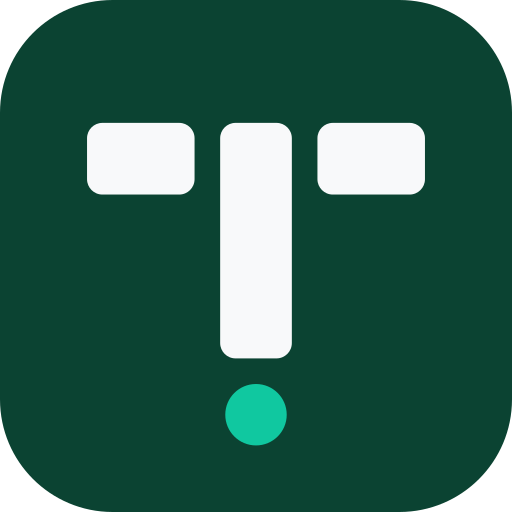
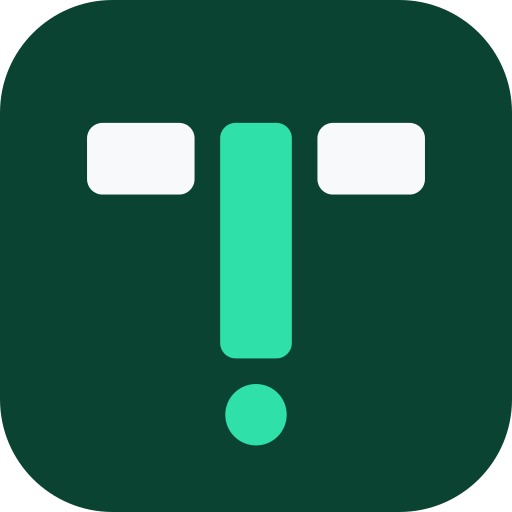
feat(brand): two-tone mark — mint stem carries the committed trade
owner iteration on p9.1: the all-ink glyph flattened the story. the
two crossbar segments stay ink (the two sides of the market); the stem
goes brand mint (the committed trade — the action color runs through
the mark). dark surfaces remap --brand-period to the bright variant so
the stem lifts with the ivory bars. favicon regenerated to match.
suite 275/275, tsc clean.

Changed region(s): [[0.4062, 0.2188, 0.5938, 0.7188], [0.4375, 0.75, 0.5625, 0.875]]

diff --git a/apps/taptrade-platform/frontend/packages/app/app/components/BrandMark.tsx b/apps/taptrade-platform/frontend/packages/app/app/components/BrandMark.tsx
@@ -1,17 +1,19 @@
 /**
  * BrandMark — TapTrade identity glyph (P9 revision, 2026-07-07).
  *
- * A split "T": two crossbar segments (the two sides of a binary market)
- * over a single stem (the trade that commits you), with a mint "tap dot"
- * landing under the stem — the tap that places the trade. Strokes share
+ * A split "T": two ink crossbar segments (the two sides of a binary
+ * market) over a mint stem (the committed trade — the action color runs
+ * through the mark), with a mint "tap dot" landing under the stem in the
+ * solo variant — the tap that places the trade. Strokes share
  * one weight and the two channels are real negative space, so the glyph
  * stays crisp from a 16px favicon (where the channels close into a solid
  * T) up to large lockups.
  *
  * Variants — a responsive identity system, not one frozen asset:
- *   "glyph" — naked monochrome mark in currentColor (defaults to brand ink; dark surfaces set text color to --brand-on-dark). For chrome next to the wordmark,
- *             which already carries the mint period; two mint dots in one
- *             lockup read as clutter.
+ *   "glyph" — naked two-tone mark: crossbars in currentColor (brand ink on
+ *             light; dark surfaces set text color to --brand-on-dark and
+ *             remap --brand-period to its dark variant), stem in the brand
+ *             mint. For chrome next to the wordmark.
  *   "solo"  — glyph + mint tap dot. For when the mark stands alone
  *             (loading screens, auth, share surfaces).
  * The app-icon/favicon tile lives in app/icon.svg (a container is needed
@@ -60,14 +62,14 @@ export default function BrandMark({
         rx="3"
         fill="currentColor"
       />
-      {/* the stem — one committed trade; shares the cap line, never overlaps */}
+      {/* the stem — one committed trade; the brand mint runs through it */}
       <rect
         x="42"
         y="18"
         width="16"
         height="56"
         rx="3"
-        fill="currentColor"
+        fill="var(--brand-period)"
       />
       {variant === "solo" && (
         /* the tap dot — the press that lands the trade */

diff --git a/apps/taptrade-platform/frontend/packages/app/app/page.tsx b/apps/taptrade-platform/frontend/packages/app/app/page.tsx
@@ -437,7 +437,10 @@ export default function HomePage() {
           className="inline-flex min-h-11 items-center gap-[10px] no-underline"
           aria-label={`${brand.name} home`}
         >
-          <BrandMark size={30} className="text-[var(--brand-on-dark)]" />
+          <BrandMark
+            size={30}
+            className="text-[var(--brand-on-dark)] [--brand-period:var(--brand-period-dark)]"
+          />
           <span className="text-[25px] font-bold leading-none tracking-[-0.02em] text-[var(--brand-on-dark)] [font-family:'Schibsted_Grotesk','Inter',-apple-system,BlinkMacSystemFont,sans-serif] max-[420px]:text-[22px]">
             {brand.name}
             <span className="text-[var(--brand-period-dark)]">.</span>

diff --git a/DESIGN.md b/DESIGN.md
@@ -28,7 +28,7 @@ The prior Liquid Glass spec (active 2026-04-24 → 2026-04-26) is retired. The w
 
 **Wordmark (refreshed 2026-06-06):** the wordmark is **`TapTrade.`** set in **Schibsted Grotesk 700**, color `--brand-ink` (deep forest `#0b4332`), tracking `-0.03em`, with a **mint period** (`--brand-period` `#10c8a0`) as the recurring signature element. Keep the wordmark clean — no descriptor baked into the lockup. Use a restrained descriptor _outside_ the wordmark when orientation matters: `prediction markets`, `event markets`, or `trade real-world outcomes` — in document-title metadata, auth supporting copy, first-time trade-ticket trust copy, empty states, and social/share descriptions. The brand color is its own layer: never `--accent` (CTA mint) or `--yes` (signal seafoam).
 
-**Brand mark (P9.1, 2026-07-07):** a naked **split "T"** glyph — two crossbar segments (the two sides of a binary market) over a single stem (the committed trade), strokes on one weight with real negative-space channels, drawn in `currentColor`. In chrome it renders as the monochrome glyph next to the wordmark (ink on light, `--brand-on-dark` ivory on dark) — the mint period stays the wordmark's job so a lockup never carries two mint dots. Standing alone (loading, auth, share surfaces) the `solo` variant adds the **mint tap dot** under the stem — the tap that lands the trade. The deep-forest rounded-square tile survives only in `app/icon.svg` / `app/icon.png` (favicons need a container against browser chrome); page surfaces never draw the tile. Source of truth: `app/components/BrandMark.tsx`. The 2026-06-06 tile-with-corner-dot mark is **retired** — letter-in-a-tile read as a generic app icon, the corner dot read as a notification badge, and its stem overlapped the crossbar segments producing sub-pixel seams at chrome sizes.
+**Brand mark (P9.1, 2026-07-07):** a naked **two-tone split "T"** glyph — two ink crossbar segments (the two sides of a binary market) over a **mint stem** (the committed trade; the brand mint runs through the mark), strokes on one weight with real negative-space channels. Crossbars draw in `currentColor` (ink on light; dark surfaces set the text color to `--brand-on-dark` and remap `--brand-period` to its dark variant so the stem brightens with them). The mint period stays the wordmark's signature; the stem is a slab, not a dot, so the pairing rhymes instead of repeating. Standing alone (loading, auth, share surfaces) the `solo` variant adds the **mint tap dot** under the stem — the tap that lands the trade. The deep-forest rounded-square tile survives only in `app/icon.svg` / `app/icon.png` (favicons need a container against browser chrome); page surfaces never draw the tile. Source of truth: `app/components/BrandMark.tsx`. The 2026-06-06 tile-with-corner-dot mark is **retired** — letter-in-a-tile read as a generic app icon, the corner dot read as a notification badge, and its stem overlapped the crossbar segments producing sub-pixel seams at chrome sizes.
 
 **First-screen hierarchy:** the first viewport should answer, in order: this is TapTrade, this is a prediction-market trading app, this is a live market with a price, and these are the YES/NO actions. Do not add a marketing hero above the market hero.
 
